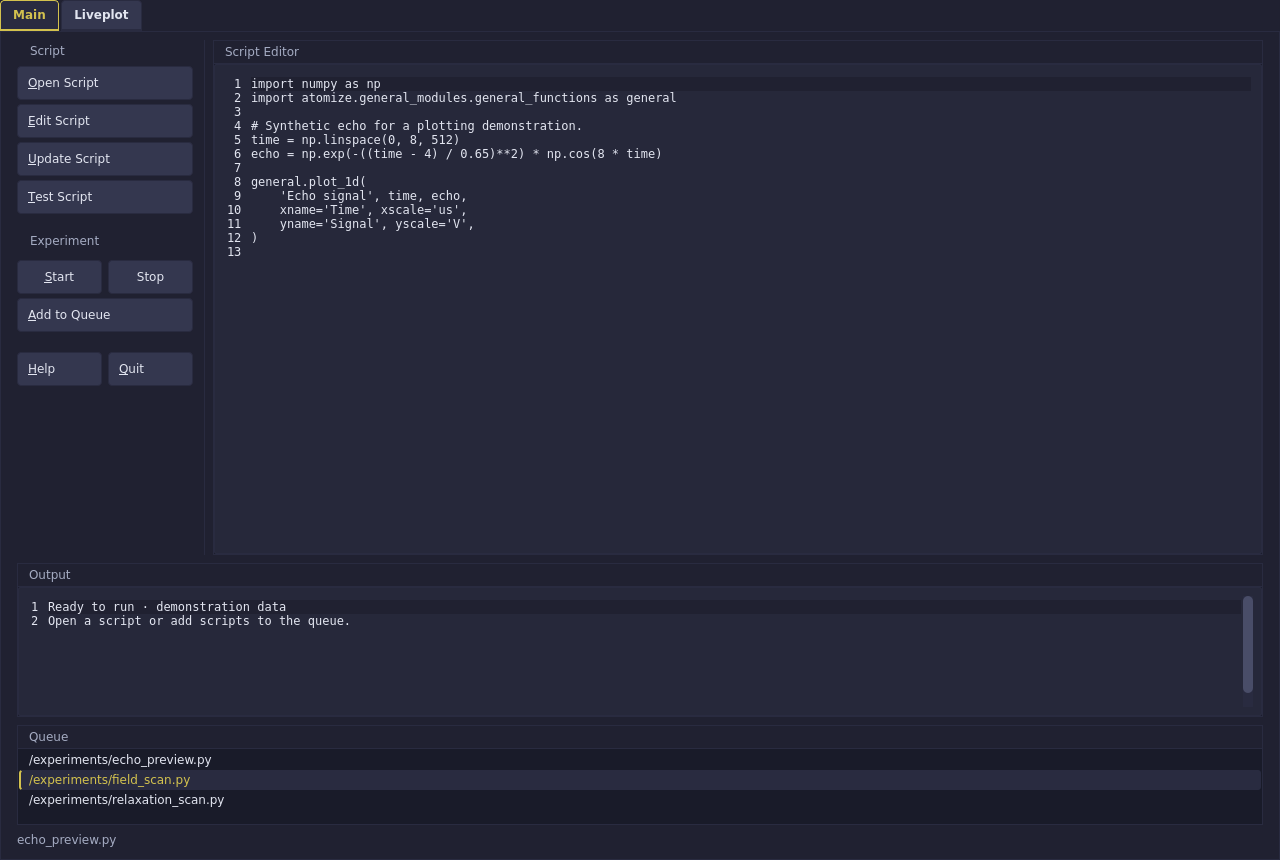
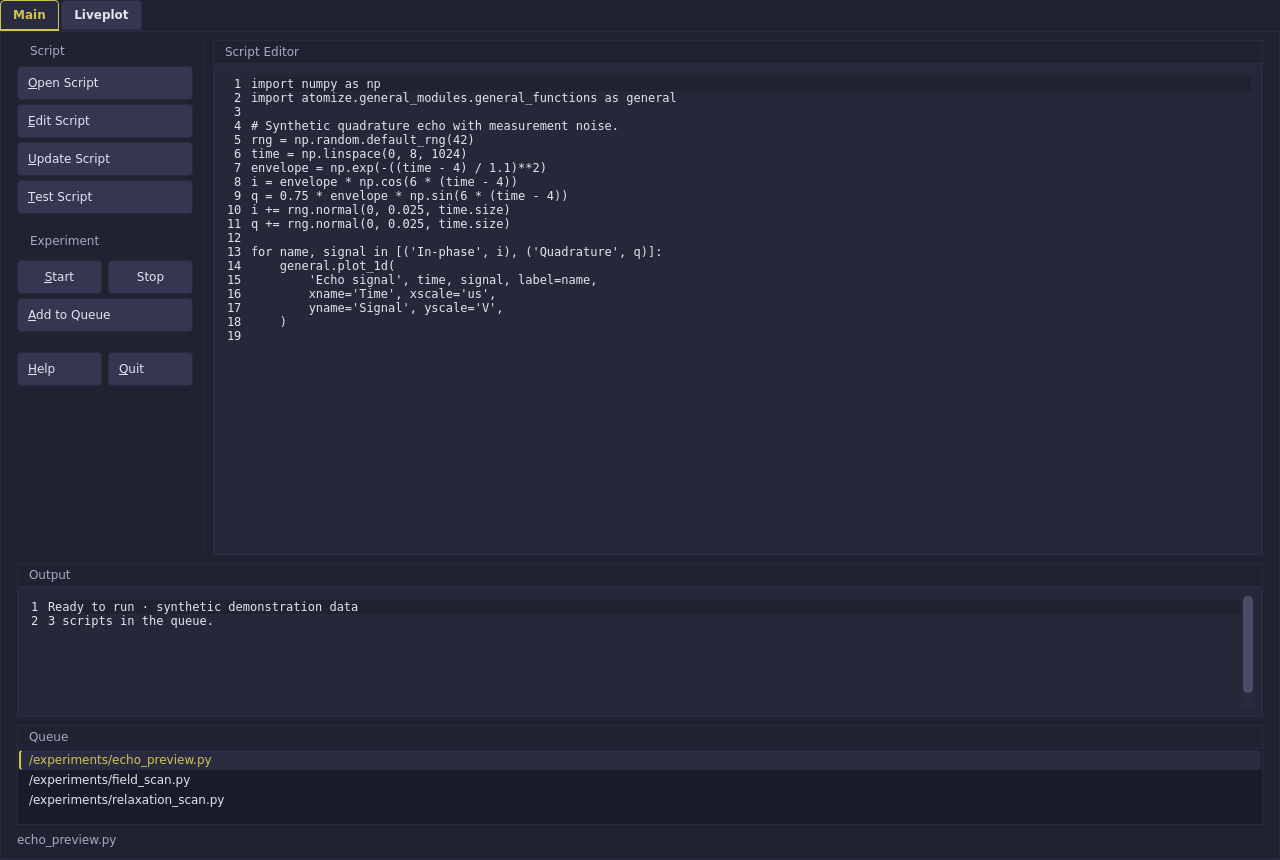
Refresh screenshots with noisy traces and separate 1D and 2D views

diff --git a/readme.md b/readme.md
@@ -122,6 +122,6 @@ The current interface shown with synthetic demonstration data.
 
 ![Script editor and experiment queue](screenshots/screenshot.png)
 
-![Liveplot with two 1D plots](screenshots/screenshot2.png)
+![Liveplot with two noisy 1D traces](screenshots/screenshot2.png)
 
-![Liveplot with 1D plots and a 2D map](screenshots/screenshot3.png)
+![Liveplot with a noisy 2D echo map](screenshots/screenshot3.png)
